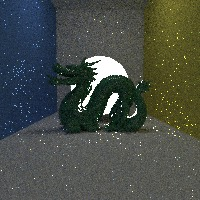
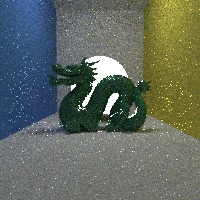
Bump dragon scene overhead light for more ambient fill
lightBall emissive (3,3,3) → (8,8,8)

Claude-Session: https://claude.ai/code/session_01F4i5ZYQqcx6sAWdMfFRSTk

diff --git a/src/scenes/dragon.ts b/src/scenes/dragon.ts
@@ -41,7 +41,7 @@ const rightWall = new Rectangle({
 
 const lightBall = new Sphere({
   center: new Point(0, 16, 3), radius: 3, name: "lightBall",
-  material: new Material({ albedo: new Color(1, 1, 1), emissive: new Color(3, 3, 3) }),
+  material: new Material({ albedo: new Color(1, 1, 1), emissive: new Color(8, 8, 8) }),
 });
 
 // Back light — large warm sphere behind the dragon, backlights subsurface